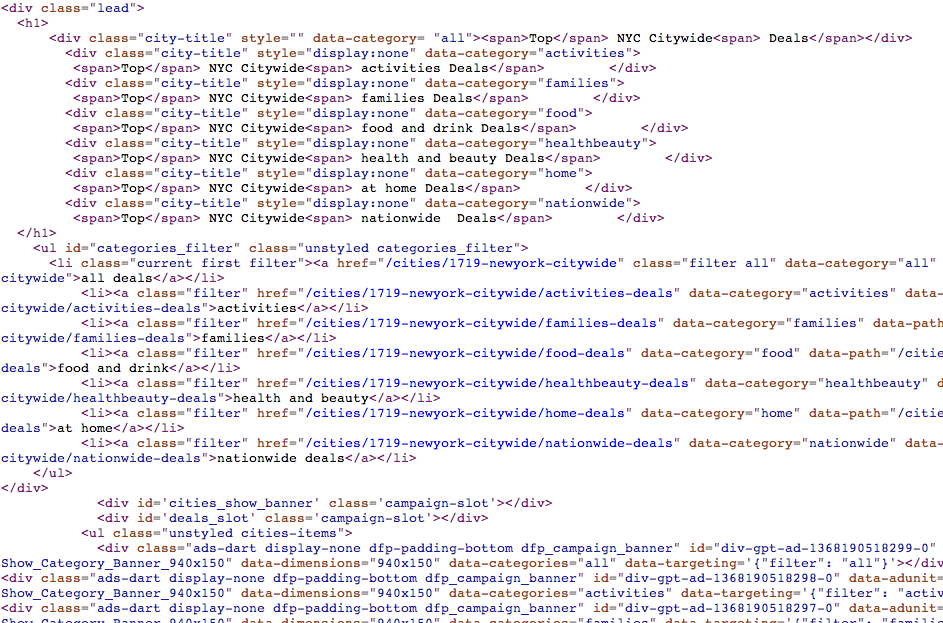
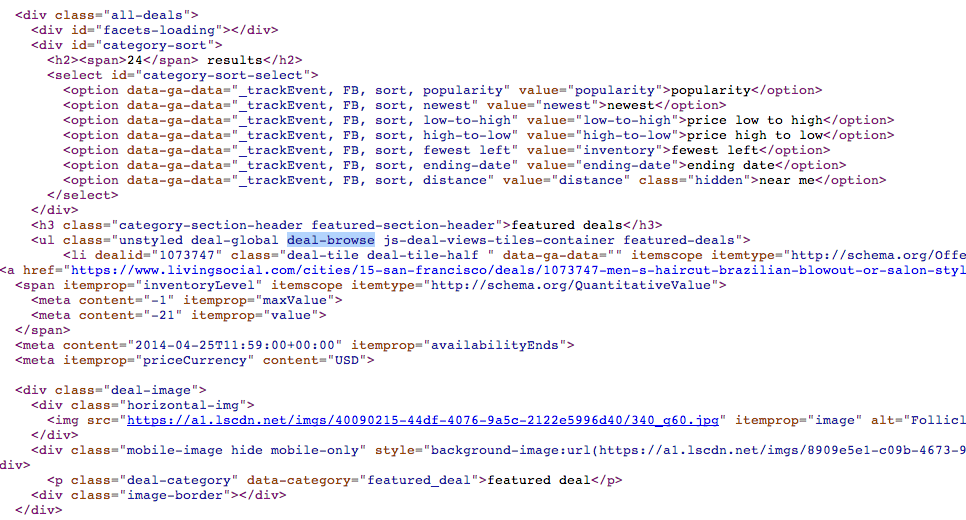
updated xpaths to match the current website design for livingsocial.com

Changed region(s): [[0.0, 0.0, 1.0, 1.0]]

diff --git a/scrape/living_social/scraper_app/spiders/livingsocial_spider.py b/scrape/living_social/scraper_app/spiders/livingsocial_spider.py
@@ -24,13 +24,13 @@ class LivingSocialSpider(BaseSpider):
     start_urls = ["http://www.livingsocial.com/cities/15-san-francisco"]
 
     deals_list_xpath = '//li[@dealid]'
-    item_fields = {'title': './/a/div[@class="deal-bottom"]/h3[@itemprop]/text()',
+    item_fields = {'title': './/a/div[@class="deal-details"]/h2[@itemprop="name"]/text()',
                    'link': './/a/@href',
-                   'description': './/a/div[@class="deal-bottom"]/p/text()',
-                   'category': './/a/div[@class="deal-top"]/div[@class="deal-category"]/span/text()',
-                   'location': './/a/div[@class="deal-top"]/ul[@class="unstyled deal-info"]/li/text()',
-                   'original_price': './/a/div[@class="deal-bottom"]/ul[@class="unstyled deal-info"]/li[@class="deal-original"]/del/text()',
-                   'price': './/a/div[@class="deal-bottom"]/ul[@class="unstyled deal-info"]/li[@class="deal-price"]/text()'}
+                   'description': './/a/div[@class="deal-details"]/p/text()',
+                   'category': './/a/div[@class="deal-image"]/p[@data-category]/@data-category',
+                   'location': './/a/div[@class="deal-details"]/p[@class="location"]/text()',
+                   'original_price': './/a/div[@class="deal-prices"]/div[@class="deal-strikethrough-price"]/text()',
+                   'price': './/a/div[@class="deal-prices"]/div[@class="deal-price"]/text()'}
 
     def parse(self, response):
         """

diff --git a/website/_posts/Scrape/2013-03-05-Part-2-Writing-our-Spider.md b/website/_posts/Scrape/2013-03-05-Part-2-Writing-our-Spider.md
@@ -28,13 +28,13 @@ class LivingSocialSpider(BaseSpider):
 	start_urls = ["http://www.livingsocial.com/cities/15-san-francisco"]
 
     deals_list_xpath = '//li[@dealid]'
-    item_fields = {'title': './/a/div[@class="deal-bottom"]/h3[@itemprop]/text()',
+    item_fields = {'title': './/a/div[@class="deal-details"]/h2[@itemprop="name"]/text()',
                    'link': './/a/@href',
-                   'description': './/a/div[@class="deal-bottom"]/p/text()',
-                   'category': './/a/div[@class="deal-top"]/div[@class="deal-category"]/span/text()',
-                   'location': './/a/div[@class="deal-top"]/ul[@class="unstyled deal-info"]/li/text()',
-                   'original_price': './/a/div[@class="deal-bottom"]/ul[@class="unstyled deal-info"]/li[@class="deal-original"]/del/text()',
-                   'price': './/a/div[@class="deal-bottom"]/ul[@class="unstyled deal-info"]/li[@class="deal-price"]/text()'}
+                   'description': './/a/div[@class="deal-details"]/p/text()',
+                   'category': './/a/div[@class="deal-image"]/p[@data-category]/@data-category',
+                   'location': './/a/div[@class="deal-details"]/p[@class="location"]/text()',
+                   'original_price': './/a/div[@class="deal-prices"]/div[@class="deal-strikethrough-price"]/text()',
+                   'price': './/a/div[@class="deal-prices"]/div[@class="deal-price"]/text()'}
 ```
 
 I’ve chosen to not build out the scaffolding with comments, but to throw this at you instead.  Let’s walk it through.
@@ -43,19 +43,19 @@ The first few variables are self-explanatory: the `name` defines the name of the
 
 Next, scrapy uses XPath selectors to extract data from a website - they select certain parts of the HTML data based on a given XPath. As said in [their documentation](http://doc.scrapy.org/en/0.16/topics/selectors.html#topics-selectors), “XPath is a language for selecting nodes in XML documents, which can also be used with HTML.” You may read more about XPath selectors in [their docs](http://doc.scrapy.org/en/0.16/topics/selectors.html#topics-selectors).
 
-We basically tell scrapy where to start looking for information based on a defined Xpath.  Let’s navigate to our [LivingSocial](http://www.livingsocial.com/cities/1719-newyork-citywide) site and right-click to "View Source":
+We basically tell scrapy where to start looking for information based on a defined Xpath.  Let’s navigate to our [LivingSocial](http://www.livingsocial.com/cities/15-san-francisco) site and right-click to "View Source":
 
 ![View Source of LivingSocial]({{ get_asset('/images/scrape/view-source.png')}})
 
 I mean – look at that mess. We need to give the spider a little guidance.
 
-You see that `deals_list_xpath = '//ul[@class="unstyled cities-items"]/li[@dealid]'` sort of looks like the code we see with HTML.  You can read about how to contruct an XPath and working with relative XPaths in their [docs](http://doc.scrapy.org/en/0.16/topics/selectors.html#working-with-relative-xpaths). But essentially, the `'//ul[@class="unstyled cities-items"]/li[@dealid]'`  is saying: within all `<ul>` elements, if a `<ul class=` is defined as "unstyled cities-items", then go within that `<ul>` element to find `<li>` elements that have a parameter called `dealid`.
+You see that `deals_list_xpath = '//li[@dealid]'` sort of looks like the code we see with HTML.  You can read about how to contruct an XPath and working with relative XPaths in their [docs](http://doc.scrapy.org/en/0.16/topics/selectors.html#working-with-relative-xpaths). But essentially, the `'//li[@dealid]'` is saying: find all `<li>` elements that have a parameter called `dealid`. To make this more clear, if we were to use a more restrictive approach, we could have said: `deals_list_xpath = //ul[contains(@class, "deal-browse")]/li[@dealid]`, which is saying: within all `<ul>` elements, if a `<ul class=` contains "deal-browse", then go within that `<ul>` element to find `<li>` elements that have a parameter called `dealid`.
 
-Try it out: within your “View Source” page of the Living Social website, search within the source itself (either pressing CMD+F or CTRL+F within the page) and search for `"unstyled cities-items"` - you will see:
+Try it out: within your “View Source” page of the Living Social website, search within the source itself (either pressing CMD+F or CTRL+F within the page) and search for `"deal-browse"` - you will see:
 
 ![screenshot]( {{ get_asset('/images/scrape/highlight.png')}})
 
-(highlighted with the portion of searched text). Scroll a few lines down to see something like `<li dealid="123456">`. BAM! those are where our deals are specifically located on the web site.
+(highlighted with the portion of searched text). In the next line, you can see something like `<li dealid="1073747">`. BAM! those are where our deals are specifically located on the web site.
 
 **NOTE** When scraping your own sites and trying to figure out XPaths, Chrome's [Dev Tools](https://developers.google.com/chrome-developer-tools/) offers the ability to inspect html elements, allowing you to just copy xpath of any element you want.  It also gives the ability to test xpaths just in the JavaScript console by using $x, for example $x("//img"). While not explored when writing this tutorial, Firefox has an add-on, [FirePath](https://addons.mozilla.org/en-us/firefox/addon/firepath/) that can edit, inspect, and generate XPaths as well.
 
